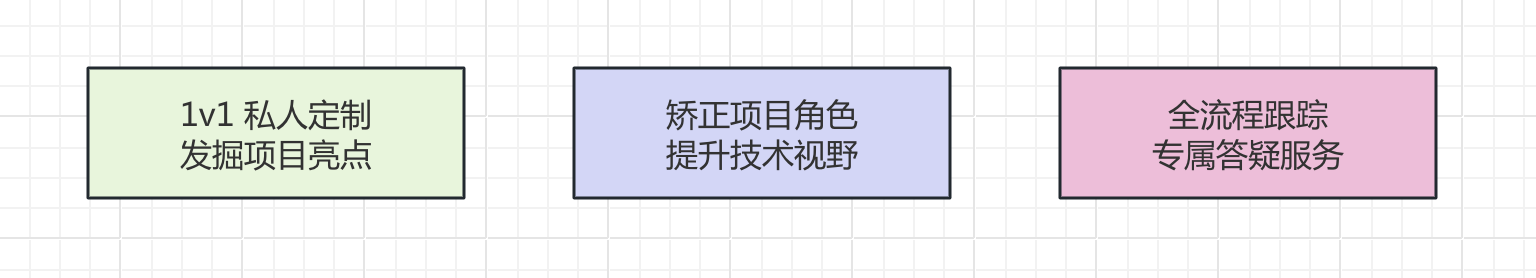
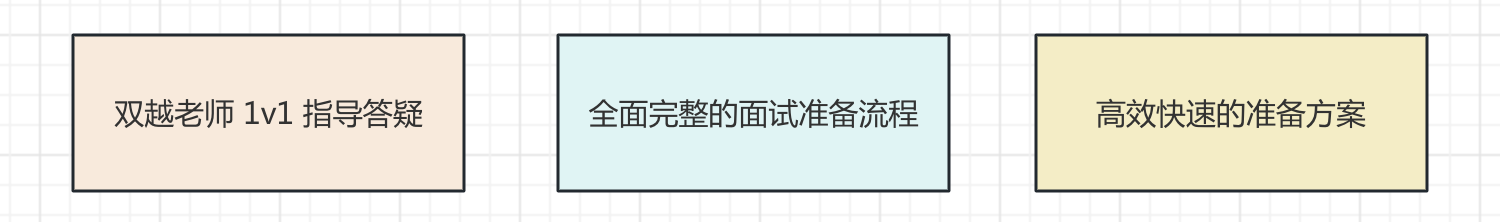
docs: 1v1

diff --git a/docs/services/1v1.md b/docs/services/1v1.md
@@ -1,6 +1,4 @@
-# 前端金牌简历计划
-
-前端面试派 作者 [双越老师](https://juejin.cn/user/1714893868765373) 带领的 **1v1 前端面试咨询服务**
+# 双越老师 1v1 面试咨询
 
 ![](../imgs/1v1/banner.png)
 
@@ -40,127 +38,8 @@
 
 ![](../imgs/1v1/service_evaluation2.png)
 
-再到 2025 年，我带领开发了 [前端面试派](https://www.mianshipai.com/) ，在这个网站的基础上，将该服务进行再一次升级为 **金牌简历计划**。
-
-## 金牌简历计划
-
-不仅仅是优化简历，还会帮你扩展内容补全简历，从技能到项目。
-
-不仅仅是发掘项目亮点，还会帮你摆正项目角色，提升技术视野。
-
-不仅仅是两次 1v1 语音沟通，还有 3 个月的全流程跟踪、专属服务。
-
 ## 服务内容
 
 ![](../imgs/1v1/mind-map.png)
 
-### 1v1 前端简历优化
-
-优化简历，发掘个人亮点和项目亮点。提高面邀率，增加面试机会，减少“已读不回”。
-
-程序员的特点就是不会表达，做的出来，但简历上写不出来 —— 本服务就是来解决这个问题。
-
-该服务会详细的、逐行的帮你分析简历，包括：专业技能，工作经历，项目经验。
-
-特别是项目经验，会重点分析项目的功能和业务，帮你反掘项目亮点，帮你写出最好的表达方式。
-
-有些同学已经工作 5 年以上，甚至 7 8 年了，还在以一个基层开发者的视角来描述项目，这肯定是不行的。此时需要你以一个项目前端负责人的视角来看待项目、描述项目，要多去考虑 `设计` `架构` `方案` 等这些方面。
-
-还有，讲师会一边咨询，一边帮你记录和整理（全程不需要你动手，你只负责认真听），最后会发修改建议给你。
-
-![](../imgs/1v1/suggest.png)
-
-待你修改完以后，讲师还会再帮你 review 一次简历，看是否还有问题。
-
-> 我之前在 B 站分享了很多关于简历优化的[案例](https://www.bilibili.com/list/697803545/?sid=3349286&oid=113976721539637&bvid=BV1rwNReZEB1)，欢迎去参考～
-
-### 补全专业技能
-
-根据你现有的专业技能，你的工作经验年限，以及你未来要面试的公司规模，统一考虑，制定你需要补充的技能。
-
-**要让你的专业技能，符合你工作经验年限，也符合目标公司的要求**。工作 2 年的和工作 8 年的，技能要求肯定不一样。小厂和大厂技能要求也不一样。
-
-如果你想面试大厂，要补充**算法**。
-
-如果你工作多年只会 Vue ，要恶补 **React** 技术栈，2 周即可从入门到熟练。
-
-如果你想争取一份技术负责人的角色，你需要熟悉 **Node 服务端**，还有**前端工程化**。
-
-如果你的项目规模比较大，需要考虑**微前端**方向。
-
-想要争取到心仪的 offer 肯定需要进步、需要恶补，这个服务会告诉你方向，而且 [面试派](https://www.mianshipai.com/) 就有免费的内容。
-
-学习过程中遇到问题怎么办？—— 好办，会有专属答疑服务，见下文。
-
-### 1v1 模拟面试
-
-如果你不确定自己准备的如何，或者表达不流畅，或者面试紧张社恐，那最好来一次模拟面试，及早暴露问题。
-
-会模拟真实的面试场景，包括：自我介绍，基础知识面试，框架，项目介绍和成就，场景题等...
-
-如果你刚毕业不久，会更多考察基础知识、框架和编码能力。
-
-如果你工作时间较长，会更多考察你的项目，设计和架构能力，以及场景解答能力。
-
-如果你要面试中大厂，会更多考察算法和原理。
-
-最后，面试官会给你详细的面试反馈和建议。
-
-### 全过程跟踪 & 专属答疑
-
-两次 1v1 结束了，但我们的服务还会继续，全过程跟踪你的学习、投简历、面试、谈薪和 offer
-
-在这个过程中，你有任何问题都可以提问，将有专门的讲师为你答疑，给你提出最合理的简历。
-
-例如学习过程中遇到了技术问题或者 bug ，投递简历已读不回，面试没通过，谈薪时是否应该多争取一点...
-
-该服务会持续 3 个月时间，可以从头到尾覆盖你的面试完整流程。
-
-## 服务流程
-
-- 报名，个人情况初步沟通（预约方式见下文）
-- 第一次 1v1 语音私聊：简历优化 + 补全技能 `1.5h`
-- 第二次 1v1 语音私聊：模拟面试 `1h`
-- 专属答疑 `3 个月`
-
-PS. 模拟面试可能会安排另外一位讲师，是经过双越老师筛选过的，有多年大厂和面试官经验的。
-
-## 价格
-
-1499 元
-
-发微信群或朋友圈分享 [前端面试派](https://www.mianshipai.com/) 相关文章，可优惠 100 元 。
-
-推荐其他人报名，可获得推荐费 100 元。
-
-## 报名方式
-
-[加群](/docs/services/group.md) 私聊群主 `双越` （或直接加 vx `fe-wfp`），报名`金牌简历计划`
-
-报名时先交 399 元定金，锁定预约的时间，待服务开始时再交尾款。
-
-## 注意事项
-
-### 延期或取消
-
-距离预约时间超过 24 小时
-
-- 修改咨询时间，免费。
-- 取消，需扣除 100 元的定金作为违约金。
-
-距离预约时间 24 小时之内
-
-- 修改咨询时间，需扣除 100 元的定金作为违约金。
-- 取消，需扣除 200 元的定金作为违约金。
-
-### 迟到
-
-迟到 5 分钟之内，可不扣费。
-
-迟到 5 - 10 分钟，需扣除 50 元定金作为违约金。
-
-迟到 10 - 20 分钟，需扣除 100 元定金作为违约金。
-
-迟到 20 - 30 分钟，需扣除 150 元定金作为违约金。
-
-迟到超过 30 分钟，则视为取消本地 1v1 服务。
+更多详细内容、价格、报名方式等，可 [加群](/docs/services/group.md) 咨询群主 `双越`

diff --git a/index.md b/index.md
@@ -14,7 +14,7 @@ hero:
       text: 面试技巧
       link: /docs/hr-exam/behavioural-test.html
     - theme: alt
-      text: 金牌简历计划 🔥
+      text: 1v1 面试咨询 🔥
       link: /docs/services/1v1.md
 
 features:
@@ -38,7 +38,7 @@ features:
 - 工作多年只会 Vue ，不懂算法，没有技术广度和深度
 - 刚毕业，没实际项目经验
 
-如有上述问题，可 [加群](/docs/services/group.md) 讨论咨询，或参与 [金牌简历计划 🔥](/docs/services/1v1.md) 系统、高效、全流程 准备前端面试～
+如有上述问题，可 [加群](/docs/services/group.md) 讨论咨询，或参与 [1v1 面试咨询服务](/docs/services/1v1.md)， 系统、高效、全流程 准备前端面试～
 
 <!-- <div style="display: grid; gap: 24px; grid-template-columns: repeat(auto-fit, minmax(224px, 1fr)); margin-top: 24px;">
   <div style="flex: 1; text-align: center;">

diff --git a/docs/second-exam/engineering.md b/docs/second-exam/engineering.md
@@ -5,7 +5,7 @@
 常见的工具，如Vite和Webpack，提供高效的构建和打包能力，显著提升开发效率并丰富前端生态。这些工具的广泛应用使前端开发更加高效，且成为近年来面试中的热门话题。
 
 ::: tip
-如有疑问，可免费 [加群](/docs/services/group.md) 讨论咨询，也可参与 [金牌简历计划 🔥](/docs/services/1v1.md) 专业、系统、高效、全流程 准备前端面试
+如有疑问，可免费 [加群](/docs/services/group.md) 讨论咨询，也可参与 [1v1 面试咨询服务](/docs/services/1v1.md)， 专业、系统、高效、全流程 准备前端面试
 :::
 
 ## Vite为什么更快？

diff --git a/docs/third-exam/leader-test.md b/docs/third-exam/leader-test.md
@@ -3,7 +3,7 @@
 二面结束以后，前端团队 Leader 面试，不再关注技术细节，更关注项目组织和设计能力。
 
 ::: tip
-如有疑问，可免费 [加群](/docs/services/group.md) 讨论咨询，也可参与 [金牌简历计划 🔥](/docs/services/1v1.md) 专业、系统、高效、全流程 准备前端面试
+如有疑问，可免费 [加群](/docs/services/group.md) 讨论咨询，也可参与 [1v1 面试咨询服务](/docs/services/1v1.md)， 专业、系统、高效、全流程 准备前端面试
 :::
 
 ## 浏览器从输入 url 到显示网页的全过程

diff --git a/docs/first-exam/HTML-CSS.md b/docs/first-exam/HTML-CSS.md
@@ -5,7 +5,7 @@
 如果你是实习生、应届生或刚毕业不久，HTML 和 CSS 知识一定要认真准备，大厂必考。
 
 ::: tip
-如有疑问，可免费 [加群](/docs/services/group.md) 讨论咨询，也可参与 [金牌简历计划 🔥](/docs/services/1v1.md) 专业、系统、高效、全流程 准备前端面试
+如有疑问，可免费 [加群](/docs/services/group.md) 讨论咨询，也可参与 [1v1 面试咨询服务](/docs/services/1v1.md)， 专业、系统、高效、全流程 准备前端面试
 :::
 
 ## DOCTYPE 是什么，都有哪些属性？

diff --git a/docs/before-interview/write-resume.md b/docs/before-interview/write-resume.md
@@ -3,7 +3,7 @@
 简历只有一个目的：引起 HR 或面试官的注意，让他们给你打电话。所以，如何让自己“亮”起来很重要。
 
 ::: tip
-如有疑问，可免费 [加群](/docs/services/group.md) 讨论咨询，也可参与 [金牌简历计划 🔥](/docs/services/1v1.md) 专业、系统、高效、全流程 准备前端面试
+如有疑问，可免费 [加群](/docs/services/group.md) 讨论咨询，也可参与 [1v1 面试咨询服务](/docs/services/1v1.md)， 专业、系统、高效、全流程 准备前端面试
 :::
 
 ## 简历格式

diff --git a/docs/first-exam/HTTP.md b/docs/first-exam/HTTP.md
@@ -3,7 +3,7 @@
 HTTP 和 Ajax 是前后端沟通的桥梁，面试重点考察，无论工作经验长短。
 
 ::: tip
-如有疑问，可免费 [加群](/docs/services/group.md) 讨论咨询，也可参与 [金牌简历计划 🔥](/docs/services/1v1.md) 专业、系统、高效、全流程 准备前端面试
+如有疑问，可免费 [加群](/docs/services/group.md) 讨论咨询，也可参与 [1v1 面试咨询服务](/docs/services/1v1.md)， 专业、系统、高效、全流程 准备前端面试
 :::
 
 ## TCP 是如何建立连接的，三次握手，四次挥手

diff --git a/docs/second-exam/vue-usage.md b/docs/second-exam/vue-usage.md
@@ -3,7 +3,7 @@
 [Vue](https://cn.vuejs.org/) 是国内最普及的前端框架，面试考察概率最高。
 
 ::: tip
-如有疑问，可免费 [加群](/docs/services/group.md) 讨论咨询，也可参与 [金牌简历计划 🔥](/docs/services/1v1.md) 专业、系统、高效、全流程 准备前端面试
+如有疑问，可免费 [加群](/docs/services/group.md) 讨论咨询，也可参与 [1v1 面试咨询服务](/docs/services/1v1.md)， 专业、系统、高效、全流程 准备前端面试
 :::
 
 ## 🔥Vue3 和 Vue2 的区别有哪些？说几个主要的

diff --git a/docs/second-exam/mini-program.md b/docs/second-exam/mini-program.md
@@ -3,7 +3,7 @@
 小程序是很容易入门和掌握的技术栈，如果你技术栈偏窄，可以考虑补充一下小程序的知识。
 
 ::: tip
-如有疑问，可免费 [加群](/docs/services/group.md) 讨论咨询，也可参与 [金牌简历计划 🔥](/docs/services/1v1.md) 专业、系统、高效、全流程 准备前端面试
+如有疑问，可免费 [加群](/docs/services/group.md) 讨论咨询，也可参与 [1v1 面试咨询服务](/docs/services/1v1.md)， 专业、系统、高效、全流程 准备前端面试
 :::
 
 ## 小程序双线程架构

diff --git a/docs/third-exam/cross-test.md b/docs/third-exam/cross-test.md
@@ -5,7 +5,7 @@
 注意，不一定所有面试都会有交叉面试，但这些面试题还是要刷一遍的，都是常考题。
 
 ::: tip
-如有疑问，可免费 [加群](/docs/services/group.md) 讨论咨询，也可参与 [金牌简历计划 🔥](/docs/services/1v1.md) 专业、系统、高效、全流程 准备前端面试
+如有疑问，可免费 [加群](/docs/services/group.md) 讨论咨询，也可参与 [1v1 面试咨询服务](/docs/services/1v1.md)， 专业、系统、高效、全流程 准备前端面试
 :::
 
 ## 求两个数组的交集和并集

diff --git a/docs/third-exam/ask-in-reply.md b/docs/third-exam/ask-in-reply.md
@@ -5,7 +5,7 @@
 要根据面试情况，看面试过程是否顺畅，如感觉不好，就别反问了。
 
 ::: tip
-如有疑问，可免费 [加群](/docs/services/group.md) 讨论咨询，也可参与 [金牌简历计划 🔥](/docs/services/1v1.md) 专业、系统、高效、全流程 准备前端面试
+如有疑问，可免费 [加群](/docs/services/group.md) 讨论咨询，也可参与 [1v1 面试咨询服务](/docs/services/1v1.md)， 专业、系统、高效、全流程 准备前端面试
 :::
 
 ## 团队使用的技术栈是什么？用什么框架？

diff --git a/docs/first-exam/TS.md b/docs/first-exam/TS.md
@@ -3,7 +3,7 @@
 Typescript 已经全面普及，尤其大厂大型项目，前端熟悉 Typescript 是标配。
 
 ::: tip
-如有疑问，可免费 [加群](/docs/services/group.md) 讨论咨询，也可参与 [金牌简历计划 🔥](/docs/services/1v1.md) 专业、系统、高效、全流程 准备前端面试
+如有疑问，可免费 [加群](/docs/services/group.md) 讨论咨询，也可参与 [1v1 面试咨询服务](/docs/services/1v1.md)， 专业、系统、高效、全流程 准备前端面试
 :::
 
 ## TS 优缺点，使用场景
